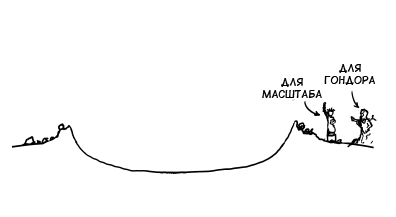
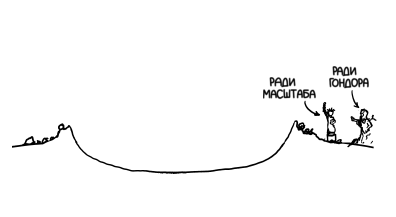
Rough proofread of 'Diamond'
Fixed #206,
Fixed #207,
Fixed #209,
Fixed #211,
Fixed #212,
Fixed #215,
Fixed #217,
Fixed #218,
Fixed #219,
Fixed #223,
Fixed #225,
Fixed #226,
Fixed #227,
Fixed #228,
Fixed #229,
Fixed #231,
Fixed #230,
Fixed #232,
Fixed #233.

Changed region(s): [[0.6667, 0.3594, 0.8182, 0.47], [0.8182, 0.2765, 0.9697, 0.4147]]

diff --git a/content/what-if/020-diamond.md b/content/what-if/020-diamond.md
@@ -7,132 +7,114 @@ SourceNum: 20
 SourceTitle: Diamond
 Formulas: False
 Description: Что произойдет, если алмазный метеорит диаметром в 30 метров, летящий со скоростью света, ударится о Землю?
+Image: https://chtoes.li/uploads/020-diamond/front.png
 
 > Что произойдет, если алмазный метеорит диаметром в 30 метров, летящий со скоростью света, ударится о Землю?
 >
 > Эйдан Смит, 8 лет, через своего отца Джеффа
 
-Ни одна сущность, состоящая из материи, не может двигаться со скоростью света. Но это не беда, мы достаточно точно можем приблизиться к ней!
+Ни одна сущность, состоящая из материи, не может двигаться со скоростью света. Но не беда\ — мы способны весьма близко подойти к этому пределу!
 
-Не имеет значения, как быстро вы толкнёте что-либо, оно никогда не достигнет скорости света. Такое положение вещей кажется неверным, но это так. В нашей Вселенной существуют довольно странные правила. Но чем ближе скорость чего-либо будет к скорости света, тем большую энергию и импульс оно будет иметь, а они будут увеличиваться до бесконечности.
+Неважно, как сильно вы толкнете что-либо,\ — скорости света ему не достигнуть. Это кажется неверным, но это так: есть в нашей Вселенной странные правила. Но чем ближе к скорости света, тем больше энергия и импульс\ — и безо всяких ограничений.
 
-Начнём с небольших скоростей и будем их постепенно увеличивать.
+Начнем с малых скоростей и будем постепенно разгоняться.
 
 **1 километр в секунду:**
 
-Если мы сбросим метеорит с [линии Кармана][1] в 100 километрах над землей, он прошьёт атмосферу насквозь без значительного замедления и упадет на землю со скоростью примерно в 3 Маха[^a]\ — больше километра в секунду.
+Если мы сбросим метеорит с границы с космосом (в 100 километрах над землей), он прошьет атмосферу насквозь без значительного замедления и упадет на землю со скоростью примерно в 3 Маха\ — больше километра в секунду.
 
-[^a]: 1 Мах\ — скорость звука в атмосфере = 330 м/с.
+Пока он падает, воздух перед ним сжимается. Когда воздух сжимается, то нагревается. (Тем же эффектом обусловлен нагрев космических кораблей и метеоритов\ — _трение_ о воздух само по себе имеет мало общего с этим.) К моменту удара о землю нижняя поверхность метеорита нагреется более чем до 500\ °C, чего вполне достаточно для свечения в видимом диапазоне.
 
-Пока он падает, воздух перед ним сжимается. Когда воздух сжимается, то нагревается. (Тем же эффектом обусловлен нагрев космических кораблей и метеоритов\ — _трение_ о воздух само по себе имеет мало общего с этим.) К моменту, когда он достигнет земли, его нижняя поверхность нагреется более, чем до 500℃, чего вполне достаточно, чтобы она начала светиться в видимом диапазоне
+Метеорит врежется в землю после двух минут полета и создаст 300-метровый\ — размером со школу\ — кратер, разбившись на куски в процессе.
 
-Врезавшись в землю спустя две минуты после того, как его отпустили, метеорит и его осколки создадут 300-метровый кратер\ — размером со школу.
-
-![](/uploads/020-diamond/diamond_1.png "когда-то здесь была школа")
+![](/uploads/020-diamond/diamond_1.png "Когда-то здесь была школа.")
 
 **11 километров в секунду:**
 
-Если мы поместим алмаз в космосе подальше от Земли и позволим ему падать в нашем направлении, то он врежется в планету со скоростью около 11 километров в секунду. Это вторая космическая скорость для Земли, любое тело, приходя из космоса, будет (благодаря гравитации) двигаться по крайней мере столь же быстро.
+Если мы поместим алмаз в космосе подальше от Земли и позволим ему падать в нашем направлении, то он врежется в планету со скоростью около 11 километров в секунду. Это вторая космическая скорость для Земли, и любое тело, приходя из космоса, будет (благодаря гравитации) двигаться по крайней мере столь же быстро.
 
-При скорости 11 километров в секунду в краткий миг падения он будет выглядеть как огненный шар. Энергия удара будет сравнима с энергией взрыва небольшой атомной бомбы, а кратер, который он создаст, будет диаметром в километр\ — чуть меньше, чем Аризонский[^b].
+При скорости 11 километров в секунду в краткий миг падения метеорит покажется нам огненным шаром. Энергия удара сравнится с энергией взрыва небольшой атомной бомбы, а созданный кратер будет диаметром в километр\ — чуть меньше, чем Аризонский.
 
-[^b]: [Аризонский кратер][2]\ — в оригинале _Meteor Crater_.
-
-![](/uploads/020-diamond/diamond_11.png "ФОР-МАТИРОВАНИЕ")
+![](/uploads/020-diamond/diamond_11.png "Ради… ация.")
 
 **72 километра в секунду:**
 
+Это, похоже, максимальная скорость столкновения с Землей для тела, вращающегося вокруг Солнца. Метеорный дождь Леониды «падает» с такой скоростью.
 
-Это, похоже, самое быстрое, что может ударить в Землю. Леониды[^c] имеют такую скорость столкновения.
+Странно, но скорость сама по себе не сильно влияет на то, как глубоко алмаз войдет в землю. Исаак Ньютон высказал [очень здравую идею][4] для оценки того, насколько далеко снаряд успевает проникнуть в цель до момента остановки. Получается, что вне зависимости от скорости движения, снаряд, попадая во что-то примерно той же плотности, пройдет вглубь лишь на свою длину.
 
-[^c]: [Леониды][3]
+![](/uploads/020-diamond/diamond_momentum.png "Шар падает на землю, затем проваливается дальше, но не слишком далеко.")
 
-Странно, но скорость сама по себе не сильно влияет на то, как глубоко он войдёт в землю. Исаак Ньютон высказал [очень здравую идею][4] для оценки того, насколько глубоко снаряды проникнут в свои цели до полной остановки. Получается, что вне зависимости от скорости движения, снаряд, попадая во что-то, имеющее примерно равную плотность, пройдёт вглубь лишь на длину своего тела.
+Однако от такого падения будут те еще брызги. Алмазный шар, летящий со скоростью 72 километра в секунду, выбьет своим взрывом кратер диаметром больше двух километров, а высвобожденная энергия сравнится с таковой у самых мощных термоядерных бомб.
 
-![](/uploads/020-diamond/diamond_momentum.png "шар падает на землю, затем падает дальше внутрь, но не слишком глубоко")
+Дальше пойдут неприятности.
 
-Однако, от такого падения будут те ещё брызги. Алмазная сфера, летящая со скоростью 72 километра в секунду, выбьет своим взрывом кратер диаметром больше двух километров, а высвобождаемая энергия сравнится с таковой у самых мощных термоядерных бомб.
+**3\ 000 километров в секунду = 0,01c:**
 
-Дальше начинается полная дичь.
+Теперь все действительно плохо. Непредсказуемости процессу добавляет тот факт, что при скоростях порядка сотен километров в секунду воздух [начинает участвовать в ядерном синтезе][5] (загуглите заголовок статьи, чтобы найти полный текст). Вместе со старым добрым нагревом плазмы этот процесс сможет разрушить наш алмазный шар целиком еще до столкновения с нашей планетой.
 
-**3\ 000 километров в секунду = 0.01c:**
+Но Земле от этого лучше не станет. Шар все равно не разлетится достаточно широко, чтобы что-то поменялось, и врежется в землю, грубо говоря, в одной точке. Взрыв высвободит в тысячу раз больше энергии, чем самое мощное ядерное оружие, опустошив область падения нашего метеорита. Он выдолбит огромный кратер\ — хоть и не самый большой из тех, что видела Земля.
 
-Непредсказуемости процессу добавляет тот факт, что при скоростях в диапазоне сотен километров в секунду, воздух [начинает участвовать в ядерном синтезе][5]. (Загуглите заголовок статьи, чтобы найти полный текст). Вместе со старым добрым нагревом плазмы, этот процесс сможет разрушить нашу алмазную сферу целиком ещё до того, как она достигнет земной поверхности.
+![](/uploads/020-diamond/diamond_3000.png "Там дыра в Южной Америке.")
 
-Земле от этого лучше явно не станет. Сфера всё равно не разлетится в достаточной степени широко и врежется в землю, грубо говоря, в одной точке. Взрыв высвободит в тысячу раз больше энергии, чем самое мощное ядерное оружие, опустошив тот регион, в котором упал наш метеорит. Он выдолбит массивный кратер\ — хотя это будет не самый большой кратер, который когда-либо видела Земля.
-
-![](/uploads/020-diamond/diamond_3000.png "дыра в Южной Америке")
-
-**0.99c:**
+**0,99c:**
 
 Здесь вступают в силу релятивистские эффекты.
 
-При таких скоростях связи, держащие сферу как целое, совершенно перестают работать. Алмазный метеорит становится просто кучей атомов углерода, двигающихся настолько быстро, что лоренцово сокращение[^d] сплющивает сферу в блин (хотя мы [не смогли бы наблюдать это визуально][6]). С помощью инструмента для эмуляции процессов физики элементарных частиц [SRIM][7] можно лучше прояснить некоторые вопросы о том, что случится, когда произойдёт удар.
+При таких скоростях связи, держащие шар как целое, совершенно перестают работать. Алмазный метеорит станет просто кучей атомов углерода, двигающихся настолько быстро, что лоренцово сокращение сплющивает шар в блин (хотя мы [не смогли бы наблюдать это визуально][6][^a]). С помощью инструмента для моделирования процессов физики элементарных частиц [SRIM][7] можно лучше прояснить некоторые вопросы о том, что случится, когда произойдет удар.
 
-[^d]: [Лоренцево сокращение][8]\ — визуальное уменьшение линейных размеров движущегося с околосветовой скоростью тела для неподвижного наблюдателя.
+[^a]: Автор, возможно, путает лоренцево сокращение с вращением Террелла\ — Пенроуза. Мы не смогли бы увидеть своими глазами обратную сторону шара, но сплющивание будет иметь место при любом способе наблюдения. На Википедии есть хорошая [статья][a] в тему.
 
-Каждый из атомов углерода в шаре несёт в себе около 70 ГэВ энергии. Он движется слишком быстро, чтобы сталкиваться с воздухом непосредственно, и просто проходит напролом. Молекулы воздуха прошибают насквозь три метра шара, прежде чем остановиться внутри него, он быстро расширяется и дойдёт до земли с большим содержанием материи, чем в начале падения.
+Каждый из атомов углерода в шаре несет в себе около 70 ГэВ энергии. Атомы движутся слишком быстро, чтобы взаимодействовать с воздухом непосредственно, и просто проходят сквозь него. Молекулы воздуха прошибают три метра шара, прежде чем остаться внутри. Шар будет быстро расширяться и дойдет до земли с бóльшим содержанием материи, чем в начале падения.
 
-Когда он врежется в поверхность, то полностью дезинтегрирует, прорывая яму вглубь и вширь, выкорчевывая конусообразную дорогу через корневую породу. Уравнение глубины воздействия становится не применимо, так как атомы буквально _проходят друг сквозь друга_.
+Когда он врежется в поверхность, то полностью дезинтегрирует, прорывая яму вглубь и вширь, и вырежет конусообразную выемку в корневой породе. Уравнение глубины проникновения здесь уже неприменимо, так как атомы буквально *проходят друг сквозь друга*.
 
-Энергия столкновения выломает дыру в земной коре и выбьет взрывом настолько большой кратер, что через него можно будет видеть расплавленную мантию. Столкновение будет содержать в себе энергию аналогичную 50 ударам Чиксулубского астероида[^e], убившего динозавров\ — достаточно, чтобы вызвать массовое вымирание, если не конец всей жизни вообще.
+Энергия столкновения выломает дыру в земной коре и выбьет взрывом настолько большой кратер, что через него можно будет видеть расплавленную мантию. Столкновение выплеснет энергию 50 Чиксулубских астероидов, что убили динозавров,\ — достаточно, чтобы вызвать массовое вымирание, если не конец всей жизни на Земле.
 
-[^e]: [Чиксулуб][9].
+![](/uploads/020-diamond/diamond_99.png "Ты сделал это, Эйдан.")
 
-![](/uploads/020-diamond/diamond_99.png "ты сделал это, Эйдан")
+Есть у меня мысль, что одна из самых великих вещей в физике\ — это возможность добавить больше цифр к *любому числу* и посмотреть, что произойдет. И никто не сможет тебя не остановить.
 
-Мне всегда казалось, что одна из самых великих вещей в физике: возможность добавить больше цифр к _любому числу_ и посмотреть, что произойдёт. И никто не сможет остановить тебя.
+**0,999\ 999\ 9c:**
 
-**0.9999999c:**
+На этой скорости каждый атом углерода несет 25 ТэВ энергии, что сравнимо с частицами в луче Большого адронного коллайдера. Еще чуть быстрее, и мы могли бы найти в осколках от удара бозон Хиггса.
 
-На этой скорости каждая молекула углерода несёт 25 ТэВ энергии, что сравнимо с частицами в луче Большого Адронного Коллайдера[^f]. Ещё чуть быстрее, и мы могли бы найти в осколках от удара бозон Хиггса.
+В данных условиях все это ударит по планете с кинетической энергией движущейся по орбите Луны. Этого достаточно, чтобы пробить зияющую дыру в мантии и взбить всю земную поверхность, сделав планету жидкой. Это, вероятно, положит конец всей жизни на Земле и вокруг нее.
 
-[^f]: Про Большой адронный коллайдер и бозон Хиггса можно прочесть в [конспекте лекции][10]
+Ой, кот опять прошелся по клавиатуре, и добавилась еще куча девяток.
 
-В данных условиях всё это ударит по планете примерно с кинетической энергией Луны, движущейся по орбите. Этого достаточно, чтобы пробить зияющую дыру в мантии и растрясти земную поверхность по всей планете, превращая её в расплавленную. Это, вероятно, положит конец всей жизни на Земле и вокруг неё.
+**0,999\ 999\ 999\ 999\ 999\ 999\ 999\ 995\ 1c**
 
-Ой, на мою клавиатуру опять наступил кот, и добавилась ещё куча девяток.
+Самый быстрый объект (с массой) в письменной истории, должно быть, частица О-Боже-Мой (не имеет никакого отношения к частице Бога)\ — протон из космоса, рассекший атмосферу над Ютой в 1991-м. Он двигался со скоростью в 99,999\ 999\ 999\ 999\ 999\ 999\ 999\ 51% от скорости света, а значит, обладал кинетической энергией бейсбольного мяча\ — и это в одном протоне. Каскад выбитых им частиц затмил бы все, что мы можем получить на БАКе.
 
-**0.9999999999999999999999951c**
-
-Самым быстрым объектом (имеющим массу) в письменной истории может быть частица О-Боже-Мой (никакого отношения к частице Бога она не имеет), протон из космоса, который вспахал атмосферу над Ютой в 1991-м. Он двигался со скоростью в 99.99999999999999999999951% от скорости света, это означает, что он упаковал в себя кинетическую энергию бейсбольного мяча. Каскад частиц, которые образовывались от его движения, не смог бы воспроизвести даже БАК.
-
-Никто не знает, как ему удалось двигаться так быстро. Частицы, движущиеся настолько быстро, сталкиваются с Землёй несколько раз в году. Кажется, что они приходят от общего направления взрыва галактик, но что там такое случилось, чтобы заставить их уйти в такой спешке, и почему они не замедлились сильнее до того, как добрались сюда,\ — в этом есть некая тайна.
+Никто не знает, почему он двигался так быстро. Частицы, движущиеся настолько быстро, сталкиваются с Землей несколько раз в год. По-видимому, они приходят со стороны взрывающихся галактик, но что там такое случилось, чтобы заставить их уйти в такой спешке, и почему они не замедлились до того, как добрались сюда,\ — в этом есть некая тайна.
 
 Давайте дадим метеориту Эйдана скорость частицы О-Боже-Мой.
 
-Эти скорости настолько высоки, что моя копия SRIM отказывается моделировать их. Однако, мы можем получить некое представление об этом процессе, рассматривая, как космические лучи проходят через горную породу.
+Эти скорости настолько высоки, что моя копия SRIM отказывается моделировать их. Однако мы можем получить некое представление об этом процессе, рассматривая, как космические лучи проходят через горную породу.
 
-Алмаз сметает колонну атмосферы, кажется, не замечая её, и исчезает в земной коре. Облако расширяющейся плазмы и излучение расходятся от точки входа, в то время как энергия пульсирует наружу через тело планеты. Сорок миллисекунд спустя вся дальняя сторона расширяется вовне в виде раскалённого облака.
+Алмаз без видимых усилий сметет столб воздуха и исчезнет в земной коре. Облако расширяющейся плазмы и излучение станут расходиться от точки входа по мере выплескивания энергии сквозь тело планеты. Сорок миллисекунд спустя вся дальняя сторона выпятится в виде раскаленного облака.
 
-Алмазный метеорит и каскад частиц, который он создал при столкновении с земной корой, распространяется наружу через тело планеты. Перегретая планета светится ярче, чем Солнце.
+Алмазный метеорит и каскад частиц, который он создал при столкновении с земной корой, разлетятся сквозь тело планеты во все стороны. Перегретая Земля светится ярче Солнца.
 
-Импульса будет достаточно, чтобы выбить Землю на другую орбиту, но Земли больше нет. Осаждённая энергия в десять тысяч раз больше, чем энергия гравитационной связи планеты, и планета взрывается в виде расширяющегося облака плазмы, особенно энергичные потоки улетят в космос по направлению удара.
+Такого импульса хватит, чтобы выбить Землю на другую орбиту, но Земли больше нет. Переданная энергия в десять тысяч раз больше, чем энергия гравитационной связи планеты, и Земля взрывом превратится в расширяющееся облако плазмы, а самые потоки с наибольшей энергией улетят в космос по направлению удара.
 
-Солнце икает и вспыхивает, поглощая волны пыли. Поверхности Марса и Венеры отчищены до блеска волнами невероятно высокоэнергетичной плазмы.
+Солнце икнет и вспыхнет, поглощая волны пыли. Поверхности Марса и Венеры до блеска вычищены волнами невероятно высокоэнергетичной плазмы.
 
-![](/uploads/020-diamond/diamond_alien.png "комментарий инопланетянина создаёт кавалькаду теологических и лингвистических загадок")
+![](/uploads/020-diamond/diamond_alien.png "Комментарий инопланетянина создает кавалькаду теологических и лингвистических загадок.")
 
-И в далёком будущем, инопланетянин-астроном на расстоянии множества сотен световых лет от Земли хмурится, глядя на сигналящий детектор, и интересуется, какое же ожесточённое событие могло заставить частицу двигаться так быстро.
+И в далеком будущем инопланетянин-астроном на расстоянии множества сотен световых лет от Земли хмурится, глядя на сигналящий детектор, и удивляясь: что за невообразимая катастрофа могла заставить частицу двигаться так быстро.
 
 *[БАК]: Большой адронный коллайдер
 
-[1]: http://ru.wikipedia.org/wiki/Линия_Кармана
-
-[2]: http://ru.wikipedia.org/wiki/Аризонский_кратер
-
-[3]: http://ru.wikipedia.org/wiki/Леониды
-
-[4]: http://en.wikipedia.org/wiki/Impact_depth
+[4]: https://en.wikipedia.org/wiki/Impact_depth
 
 [5]: http://www.sciencedirect.com/science/article/pii/0032063389900305
 
-[6]: http://www.guspepper.net/electro/Segundo%20semestre/Seminarios/Funez.pdf
+[6]: https://www.math.ubc.ca/~cass/courses/m309-01a/cook/terrell1.html
+
+[a]: https://ru.wikipedia.org/wiki/Форма_релятивистских_объектов
 
 [7]: http://www.srim.org/
-
-[8]: http://ru.wikipedia.org/wiki/Лоренцево_сокращение
-
-[9]: http://ru.wikipedia.org/wiki/Чиксулуб
 
 [10]: http://polit.ru/article/2012/10/22/semikhatov/
